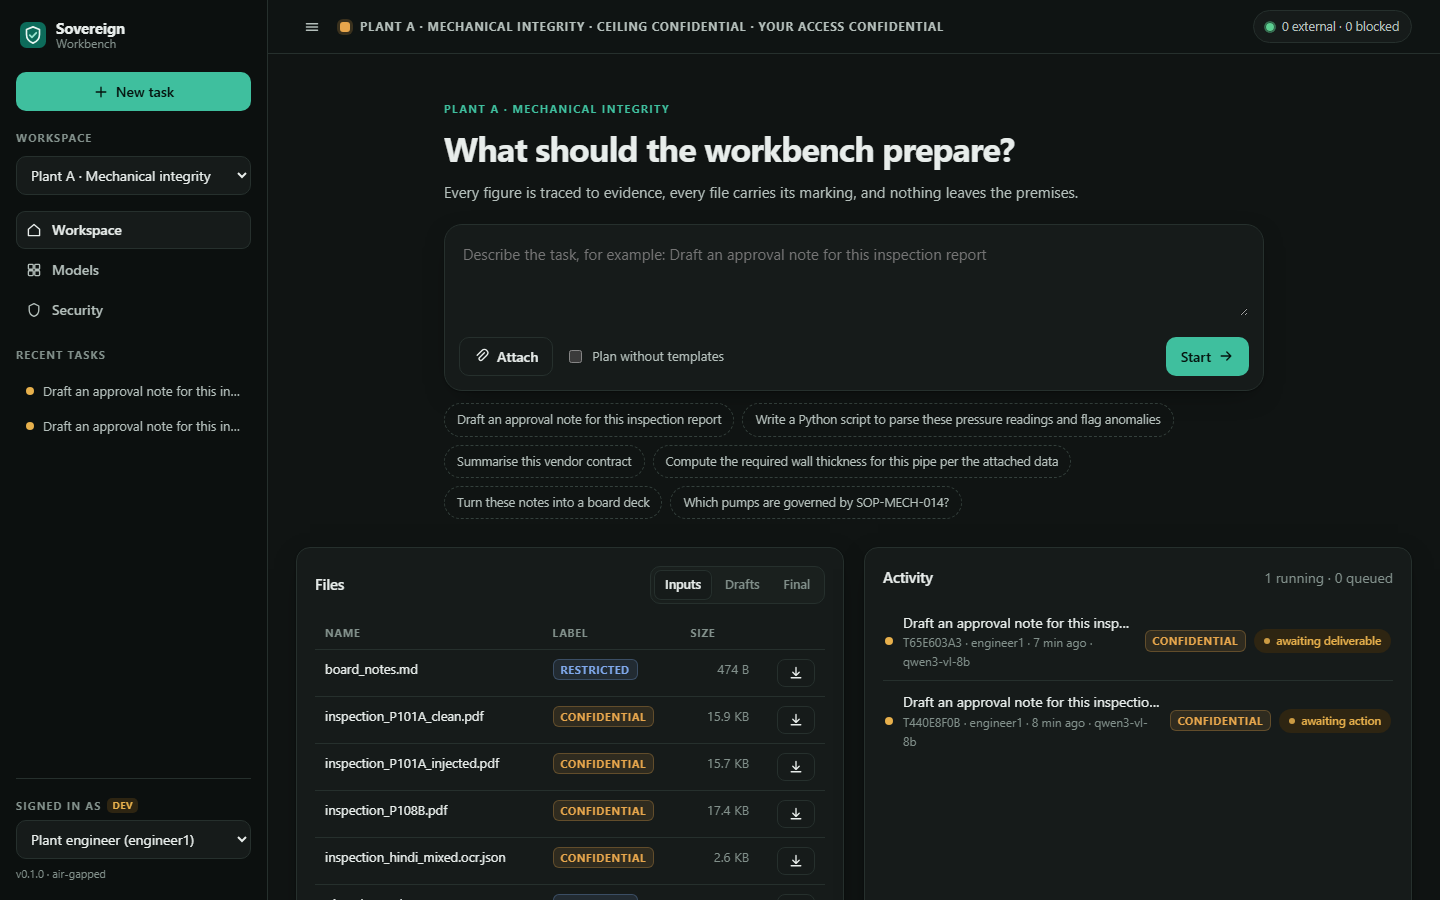
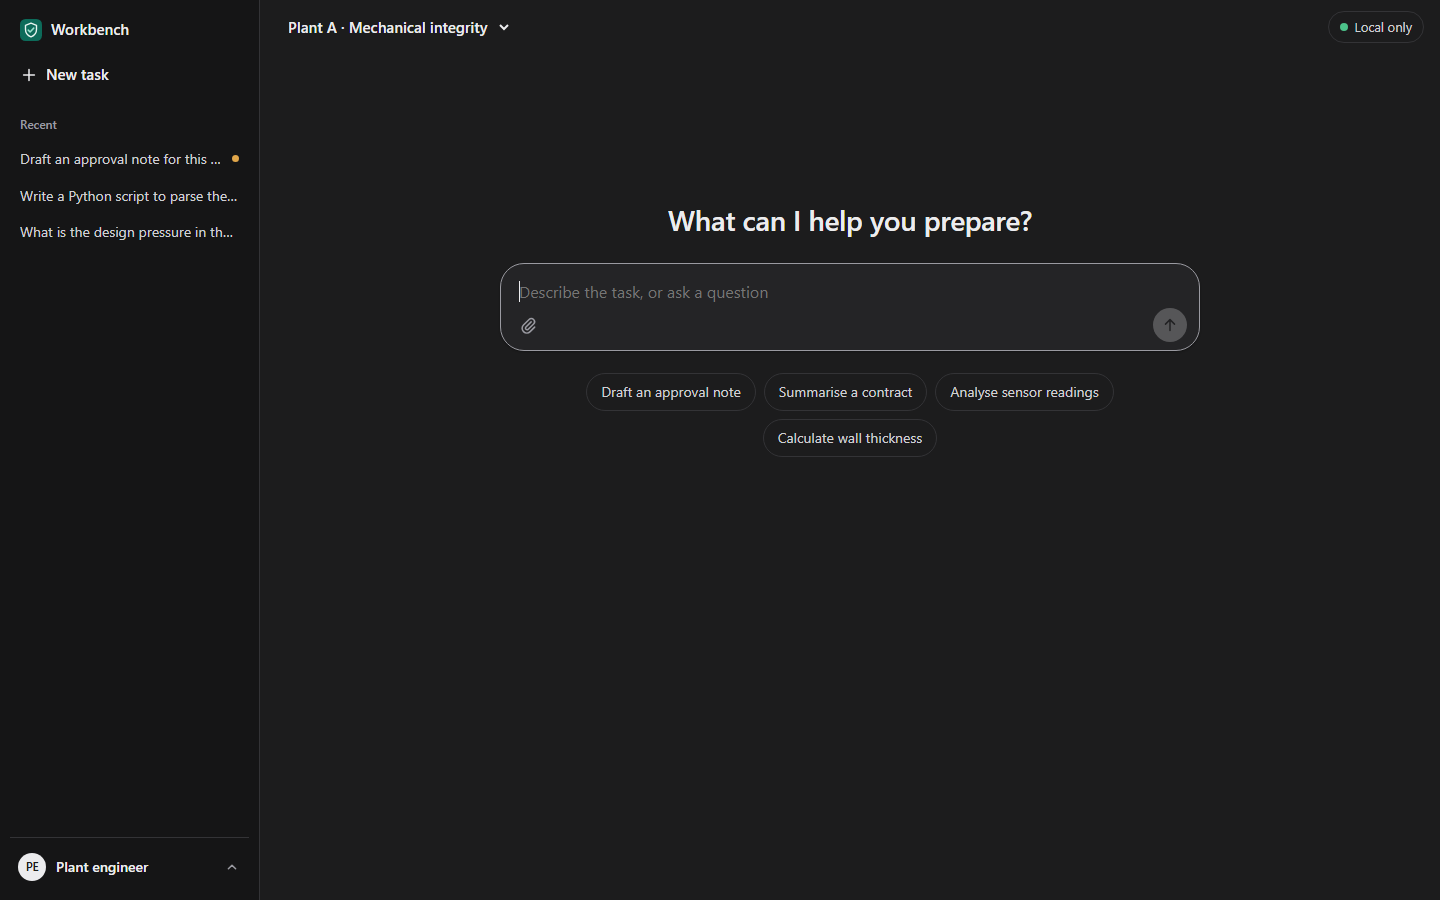
Refresh screenshots and describe the simplified interface

diff --git a/README.md b/README.md
@@ -145,9 +145,11 @@ The five scenarios from the design run end to end with `workbench demo`. The tab
 
 In every run the egress test passed and the external connection counter stayed at zero.
 
+A task reads like a conversation: the request, the plan to approve, the steps as they finish, the issues found and the files produced.
+
 ![Task view](docs/images/task.png)
 
-The review screen shows the draft as paper, underlines every figure by its provenance (source reading, computed, unsourced), lists the consistency findings that must be acknowledged, and verifies each citation against the record it cites.
+The review screen shows the draft as paper and underlines every figure by where it came from (a source, a calculation, or no source). The issues must be marked as reviewed before **Approve** unlocks, and each citation is checked against the record it cites.
 
 ![Review view](docs/images/review.png)
 
@@ -200,7 +202,7 @@ python scripts/dev.py fixtures   # synthetic reports, contract, offers, KB, asse
 workbench serve                   # http://127.0.0.1:8080
 ```
 
-Open <http://127.0.0.1:8080>, pick a suggestion such as *Draft an approval note for this inspection report*, attach `inspection_P108B.pdf` and press **Start**.
+Open <http://127.0.0.1:8080> and click **Draft an approval note**. The request and the matching scanned report are filled in; press Enter, then **Start** on the plan.
 
 ### 4. Run everything headless
 
@@ -213,15 +215,17 @@ workbench eval                   # writes reports/eval.md and reports/eval.json
 
 ## Using the workbench
 
+The interface is deliberately plain: a sidebar with your recent tasks, one box to type in, and a conversation for each task.
+
 | Screen | What you do there |
 |---|---|
-| **Workspace** | Start a task, attach files, browse inputs, drafts and final files with their classification, follow running tasks. |
-| **Task** | Read the routing decision, approve or edit the plan, approve side-effecting actions, follow the live trace, inspect every evidence record in the side panel. |
-| **Review** | Read the draft, click any figure to see its source, acknowledge consistency findings, correct or link unsourced figures, then approve or send back with a note. |
-| **Models** | See the registry, per-capability quality, the tidal pool state and the `vllm serve` command each model runs with. |
-| **Security** | Live egress counters, a one-click egress test, blocked attempts, the audit chain, downgrade requests, template drafts and the supersession impact report. |
+| **Home** | Type a request, attach files with the paperclip (or upload new ones), or pick a suggestion. |
+| **Task** | Approve, edit or cancel the plan, allow file-creating steps, follow progress, read answers with numbered sources, download files. **Details** opens the technical record: activity log, evidence, model choice and checks. |
+| **Review** | Read the draft, click any figure or source number to see where it came from, mark issues as reviewed, fix figures without a source, then approve or request changes. |
+| **Models** | See which models are ready, asleep or being evaluated, and how well each does per kind of work. |
+| **Security** | See that nothing has left the server, run a network test, check the audit log and handle approval requests. |
 
-The top bar always shows the classification of what you are looking at and the live egress status. The UI follows the system light or dark theme.
+The account menu (bottom left) switches the signed-in user in development and links to Models and Security. The top bar shows the classification of the open task and the network status. The interface follows the system light or dark theme and works on phone screens.
 
 ![Dark theme](docs/images/home-dark.png)
 
